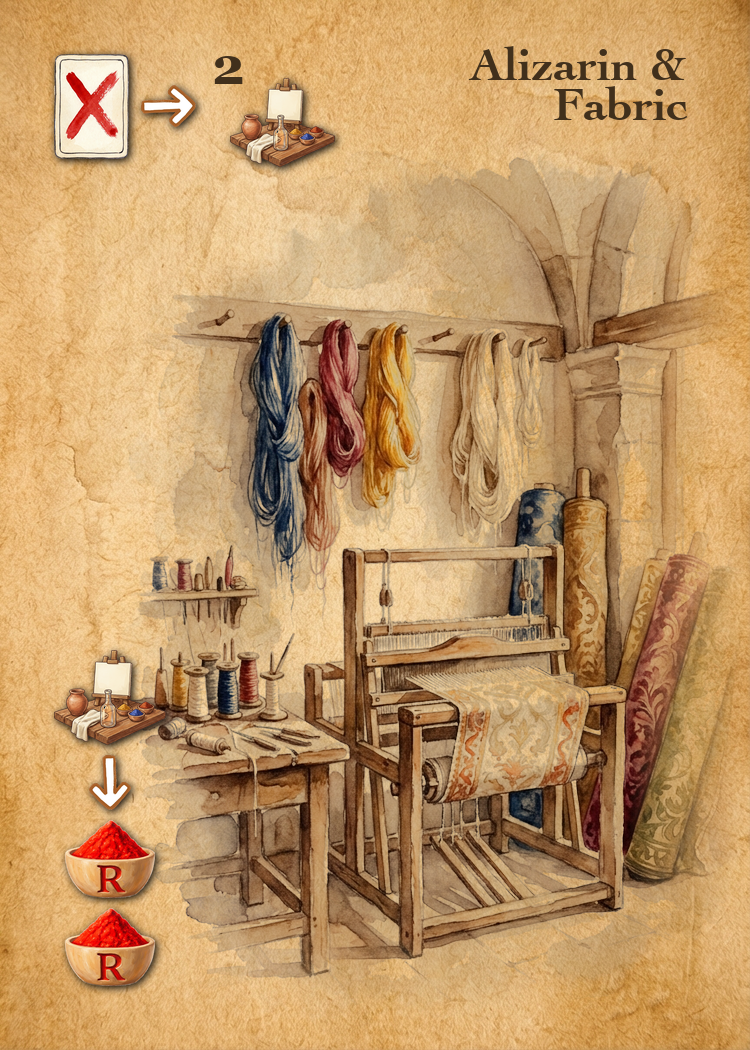
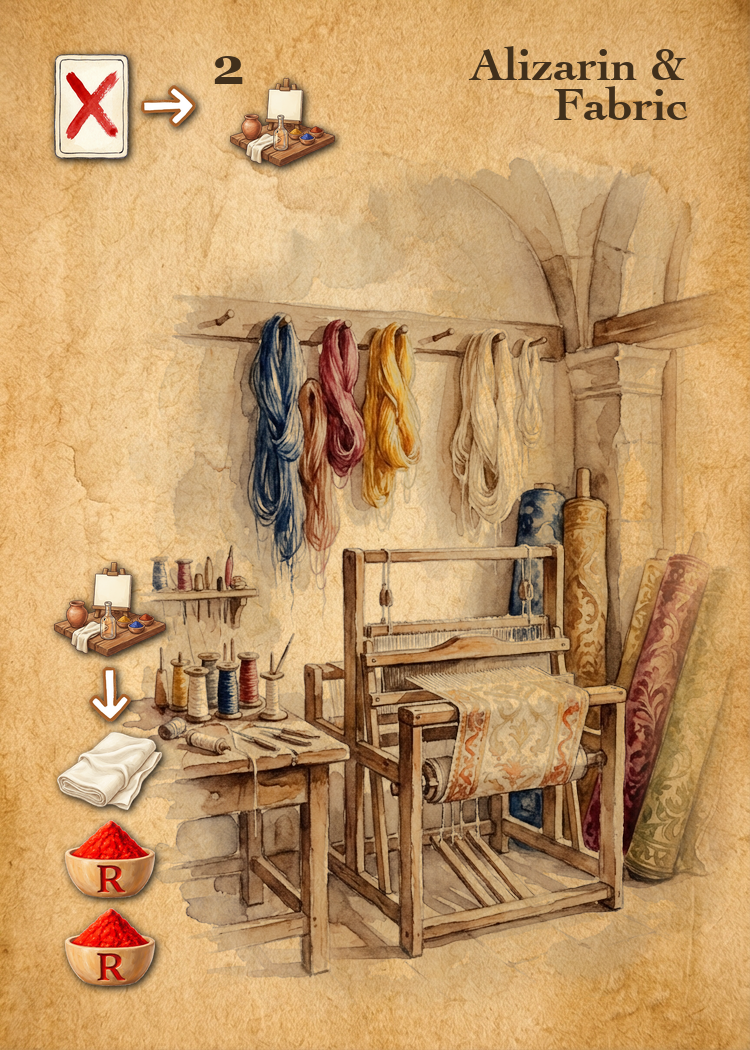
Restore textile output on textile + color pip cards
Alizarin & Fabric, Fustic & Fabric, and Pastel & Fabric now output a
textile plus two pigments of their color (previously textile + one
pigment). The earlier change that removed the textile was incorrect;
the intent was to double the pigment only.

Changed region(s): [[0.0613, 0.5181, 0.2453, 0.7924]]

diff --git a/generate_cards/card_data.py b/generate_cards/card_data.py
@@ -361,21 +361,19 @@ MATERIAL_CARDS = [
         "material_types": ["painting"], "ability": "workshop2",
         "color_pips": ["blue"], "bg_type": "painting",
     },
-    # Textile + color pip cards output two pigments of that color instead of
-    # a textile plus a pigment.
     {
         "name": "alizarin-fabric", "title": "Alizarin & Fabric",
-        "material_types": [], "ability": "workshop2",
+        "material_types": ["textile"], "ability": "workshop2",
         "color_pips": ["red", "red"], "bg_type": "textile",
     },
     {
         "name": "fustic-fabric", "title": "Fustic & Fabric",
-        "material_types": [], "ability": "workshop2",
+        "material_types": ["textile"], "ability": "workshop2",
         "color_pips": ["yellow", "yellow"], "bg_type": "textile",
     },
     {
         "name": "pastel-fabric", "title": "Pastel & Fabric",
-        "material_types": [], "ability": "workshop2",
+        "material_types": ["textile"], "ability": "workshop2",
         "color_pips": ["blue", "blue"], "bg_type": "textile",
     },
     # Dual materials